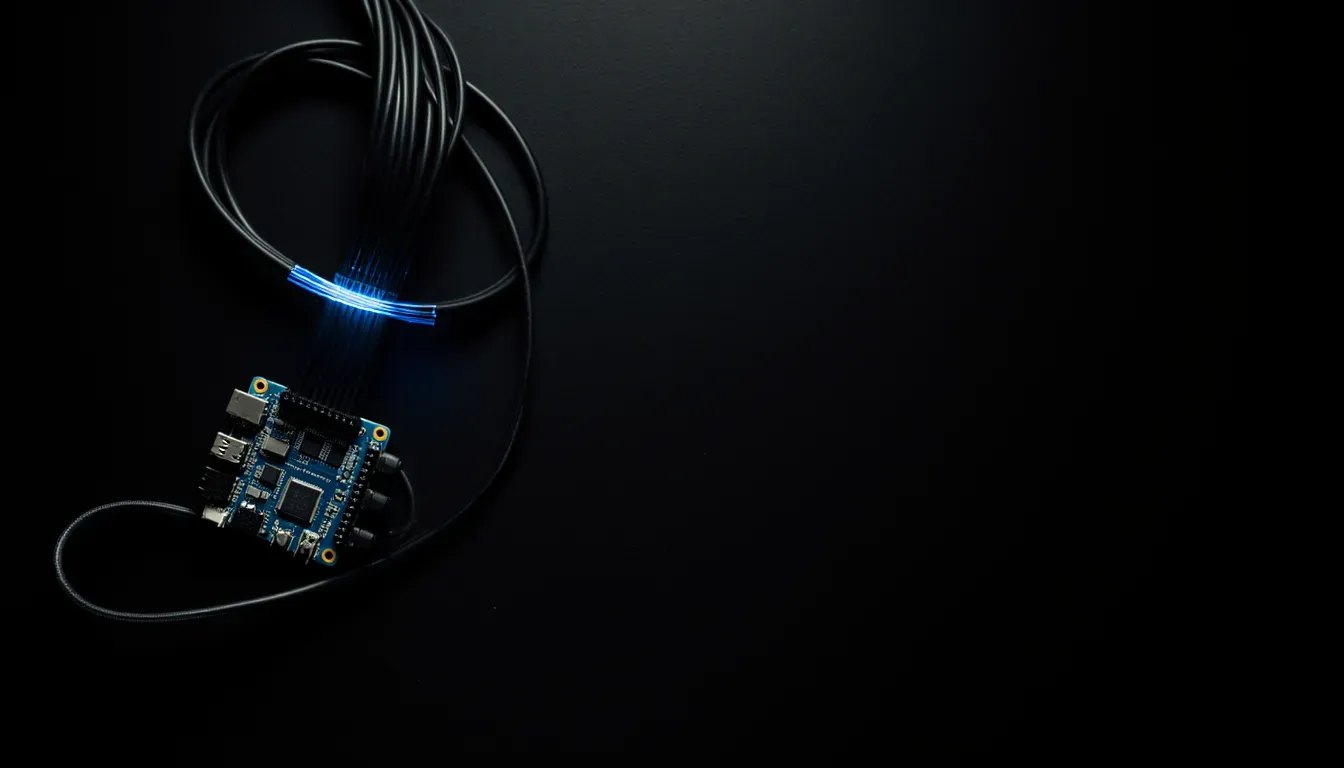
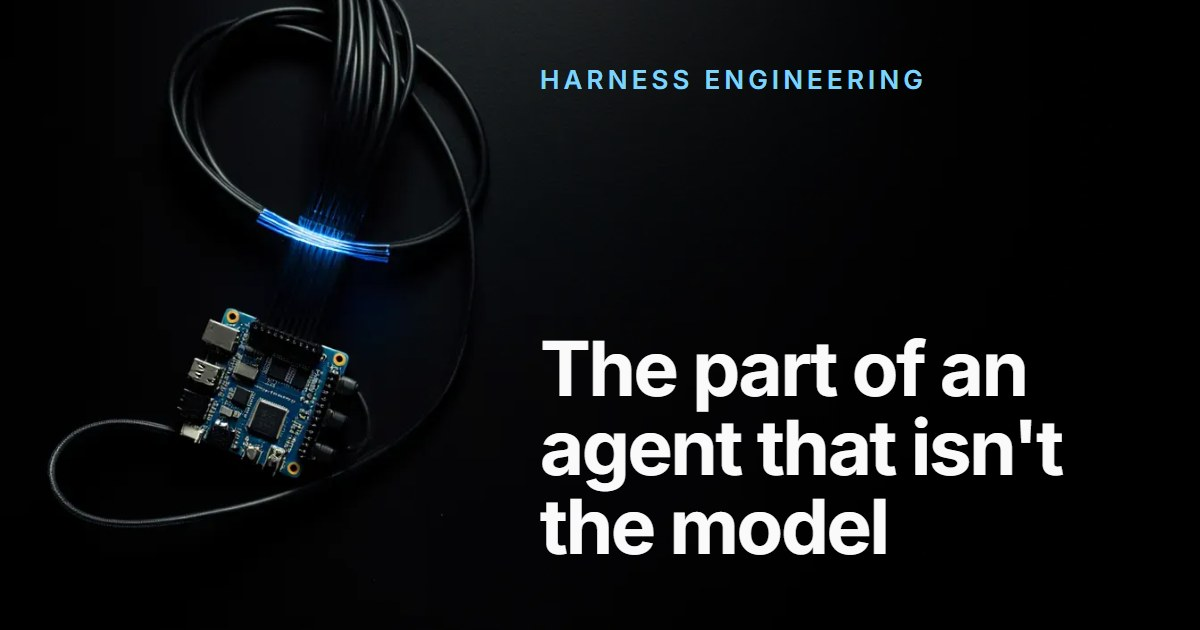
fix: put the title on the cover so it reads as a thumbnail
The cover is now a finished 1200x630 image with the title baked in, shown at
its real aspect on the list card and served as the social image as is.

diff --git a/src/lib/og/render.ts b/src/lib/og/render.ts
@@ -3,8 +3,8 @@
 // Node built-ins are imported lazily: this module is bundled into the worker, where a
 // static `node:` import fails at deploy time even though the route never runs there.
 
-// `cover` is a path under static/ (for example /images/blog/x.jpg). With one, the card
-// becomes a photo on the left and the text on the right.
+// `cover` is a finished 1200x630 JPEG under static/ (for example /images/blog/x.jpg)
+// with the title already on it. With one, the card is that image and nothing else.
 export type OgCard = { title: string; eyebrow: string; footer: string; cover?: string };
 
 const fontDir = "node_modules/@fontsource/inter/files";
@@ -41,11 +41,10 @@ export async function renderOgPng({ title, eyebrow, footer, cover }: OgCard) {
   const { default: satori } = await import("satori");
   const { Resvg } = await import("@resvg/resvg-js");
 
-  const fontSize = cover ? 56 : title.length > 70 ? 54 : title.length > 40 ? 64 : 76;
+  const fontSize = title.length > 70 ? 54 : title.length > 40 ? 64 : 76;
   const background = cover
     ? `${await coverUri(cover)} 0 0 / cover`
     : "radial-gradient(circle at 15% 0%, #1f1f23 0%, #09090b 55%, #000000 100%)";
-  const textColumn: Record<string, string | number> = cover ? { marginLeft: 448 } : {};
 
   const tree = box(
     {
@@ -59,15 +58,14 @@ export async function renderOgPng({ title, eyebrow, footer, cover }: OgCard) {
       fontFamily: "Inter",
       background,
     },
-    [
+    cover ? [] : [
       box(
         {
-          fontSize: cover ? 22 : 26,
+          fontSize: 26,
           fontWeight: 600,
           letterSpacing: 4,
           textTransform: "uppercase",
-          color: "#7dd3fc",
-          ...textColumn,
+          color: "#a1a1aa",
         },
         eyebrow,
       ),
@@ -77,7 +75,6 @@ export async function renderOgPng({ title, eyebrow, footer, cover }: OgCard) {
           fontWeight: 700,
           lineHeight: 1.1,
           letterSpacing: -2,
-          ...textColumn,
         },
         title,
       ),
@@ -87,7 +84,6 @@ export async function renderOgPng({ title, eyebrow, footer, cover }: OgCard) {
           color: "#a1a1aa",
           borderTop: "2px solid #27272a",
           paddingTop: 28,
-          ...textColumn,
         },
         footer,
       ),

diff --git a/src/lib/styles/blog.css b/src/lib/styles/blog.css
@@ -83,15 +83,14 @@
 .post-card-cover {
   display: block;
   width: 100%;
-  aspect-ratio: 14 / 9;
+  aspect-ratio: 1200 / 630;
   object-fit: cover;
-  object-position: 20% 50%;
-  border: 1px solid #1f1f23;
+    border: 1px solid #1f1f23;
   border-radius: 0.6rem;
   background: #000000;
 }
 @media (min-width: 640px) {
-  .post-card-cover { width: 12.5rem; flex-shrink: 0; }
+  .post-card-cover { width: 17rem; flex-shrink: 0; }
 }
 
 /* Callouts: GitHub-style `> [!TIP]` alerts, a soft tinted card with an icon. */

diff --git a/README.md b/README.md
@@ -169,7 +169,7 @@ A prompt readers can copy or open in Claude or ChatGPT.
 
 A `::figure <id>` line renders a motion graphic: a Svelte component that plays itself while it is on screen, so readers watch rather than click (`autoplay` in `src/lib/components/blog/figures/autoplay.ts`). With reduced motion, it shows a static version instead. Register its caption and text description in `src/lib/content/figures.ts` and its component in `src/lib/components/blog/figures/index.ts`; an unknown id fails the build. Feeds and the `.md` copy show the caption, description and a link to the figure instead.
 
-A `cover` is a JPEG (about 16:9, dark, with room on the right) under `static/`. It is the thumbnail on the `/blog` list card, beside the text on wide screens and above it on phones, and the photo on the left of the post's social image (`/blog/<slug>/og.png`), with the title on the right. It is not shown on the post page. A post without one gets the plain text social card.
+A `cover` is a finished 1200x630 JPEG under `static/`, with the title already on it (large enough to read as a small thumbnail). It is the thumbnail on the `/blog` list card, beside the text on wide screens and above it on phones, and it is served as the post's social image (`/blog/<slug>/og.png`) as is. It is not shown on the post page. A post without one gets the plain text social card.
 
 For readers who learn with AI:
 
